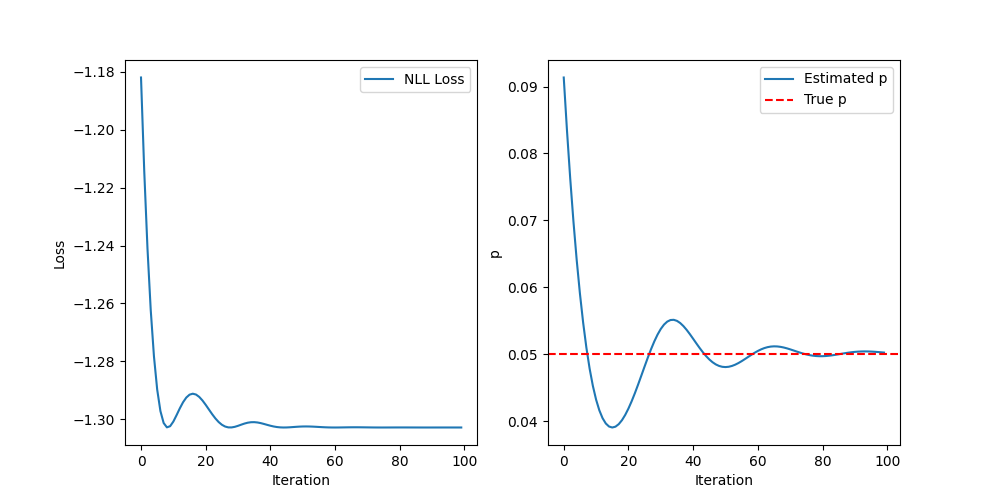
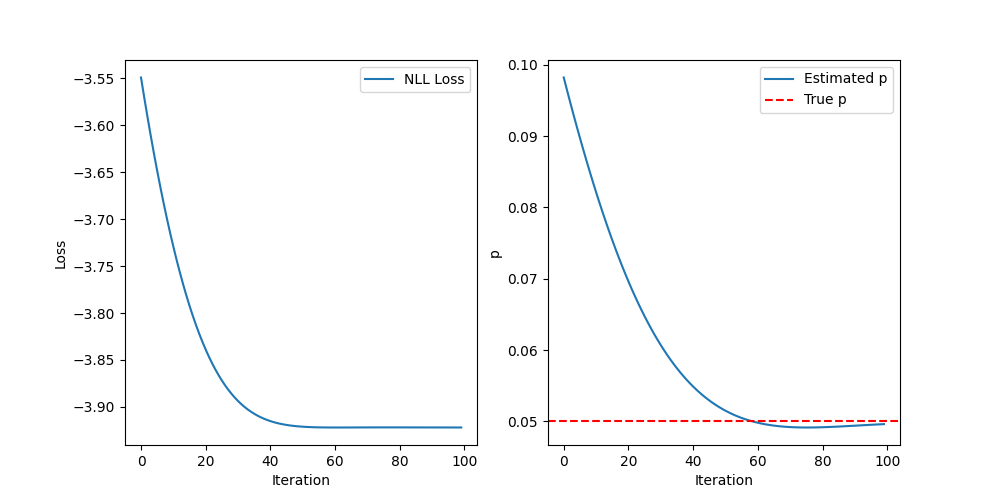
clean up qec decoder example

diff --git a/examples/reproduce_papers/2026_diff_qec_surface/main.py b/examples/reproduce_papers/2026_diff_qec_surface/main.py
@@ -88,16 +88,10 @@ def generate_surface_code(d):
                 # Z-checks generally have Rough Left/Right boundaries? No, Z-logical is Top-Bottom.
                 # X-logical is Left-Right.
                 #
-                # The provided code snippet:
-                # if is_z_check:
-                #     if c != -1 and c != d - 1:
-                #         z_checks.append(qubits)
-                #
                 # If d=3:
                 # r=-1, c=0 (sum -1 odd -> X)
                 # r=-1, c=1 (sum 0 even -> Z). c=1 != -1 and != 2. Valid. Qubits: (0,1), (0,2). Top boundary.
                 #
-                # This logic seems consistent with standard Rotated Surface Code definitions.
                 if c != -1 and c != d - 1:
                     z_checks.append(qubits)
             else:
@@ -106,20 +100,6 @@ def generate_surface_code(d):
                     x_checks.append(qubits)
 
     return data_qubits_count, z_checks, x_checks
-
-
-# Initialize Topology
-DISTANCE = 3  # Configurable: 3, 5, 7...
-DATA_QUBITS_COUNT, Z_CHECKS, X_CHECKS = generate_surface_code(DISTANCE)
-
-print(f"Generated Surface Code (d={DISTANCE}):")
-print(f"Data Qubits: {DATA_QUBITS_COUNT}")
-print(f"Z-Checks (detect X errors): {len(Z_CHECKS)}")
-print(f"X-Checks (detect Z errors): {len(X_CHECKS)}")
-
-# For demonstration, we simulate X errors detected by Z checks.
-ACTIVE_CHECKS = Z_CHECKS
-NUM_QUBITS = DATA_QUBITS_COUNT
 
 
 def get_syndrome(error_configuration, checks=None):
@@ -224,14 +204,6 @@ def surface_code_likelihood(p, observed_syndrome, checks=None, num_qubits=None):
     return jnp.abs(result_node.tensor)
 
 
-# JIT and Grad
-# We pass static arguments (checks, num_qubits) via closure or partial if needed,
-# but since they are global constants in this script structure or static, JIT can handle them if they are not traced.
-# However, 'checks' is a list of lists, which JAX jit might not like as an argument.
-# We'll rely on the fact that loss_fn calls surface_code_likelihood which uses the global ACTIVE_CHECKS by default.
-# For a cleaner implementation, we should make loss_fn close over checks.
-
-
 def make_loss_fn(checks, num_qubits):
     def loss_fn_inner(p_logit, observed_syndrome):
         p = jax.nn.sigmoid(p_logit)
@@ -239,11 +211,6 @@ def make_loss_fn(checks, num_qubits):
         return -jnp.log(likelihood + 1e-10)
 
     return loss_fn_inner
-
-
-# Initialize JIT-compiled functions for the active configuration
-loss_fn = make_loss_fn(ACTIVE_CHECKS, NUM_QUBITS)
-loss_and_grad = jax.jit(jax.value_and_grad(loss_fn))
 
 
 # -----------------------------------------------------------------------------
@@ -259,7 +226,7 @@ def main():
     print(f"True Error Probability: {p_true}")
 
     # Generate Synthetic Data
-    n_samples = 20
+    n_samples = 3000
     print(f"Generating {n_samples} synthetic syndrome samples...")
 
     key = jax.random.PRNGKey(42)
@@ -277,7 +244,7 @@ def main():
     p_init = 0.1
     logit_init = inverse_sigmoid(p_init)
 
-    optimizer = optax.adam(learning_rate=0.1)
+    optimizer = optax.adam(learning_rate=0.02)
     opt_state = optimizer.init(logit_init)
     params = logit_init
 
@@ -347,4 +314,19 @@ def inverse_sigmoid(y):
 
 
 if __name__ == "__main__":
+    # Initialize Topology
+    DISTANCE = 5  # Configurable: 3, 5, 7...
+    DATA_QUBITS_COUNT, Z_CHECKS, X_CHECKS = generate_surface_code(DISTANCE)
+
+    print(f"Generated Surface Code (d={DISTANCE}):")
+    print(f"Data Qubits: {DATA_QUBITS_COUNT}")
+    print(f"Z-Checks (detect X errors): {len(Z_CHECKS)}")
+    print(f"X-Checks (detect Z errors): {len(X_CHECKS)}")
+
+    # For demonstration, we simulate X errors detected by Z checks.
+    ACTIVE_CHECKS = Z_CHECKS
+    NUM_QUBITS = DATA_QUBITS_COUNT
+    # Initialize JIT-compiled functions for the active configuration
+    loss_fn = make_loss_fn(ACTIVE_CHECKS, NUM_QUBITS)
+    loss_and_grad = jax.jit(jax.value_and_grad(loss_fn))
     main()
